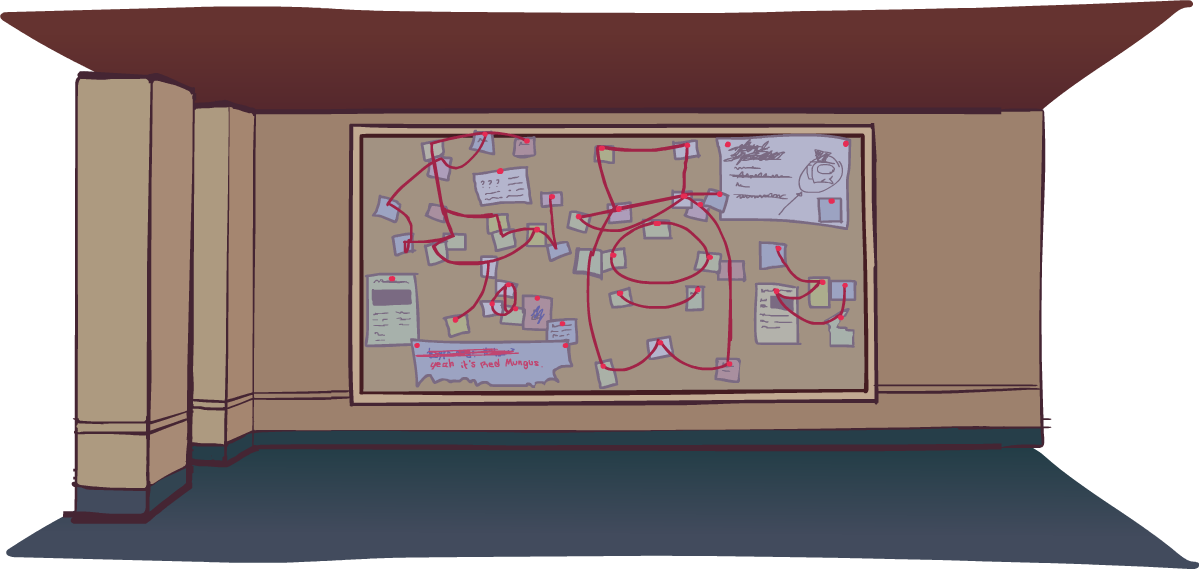
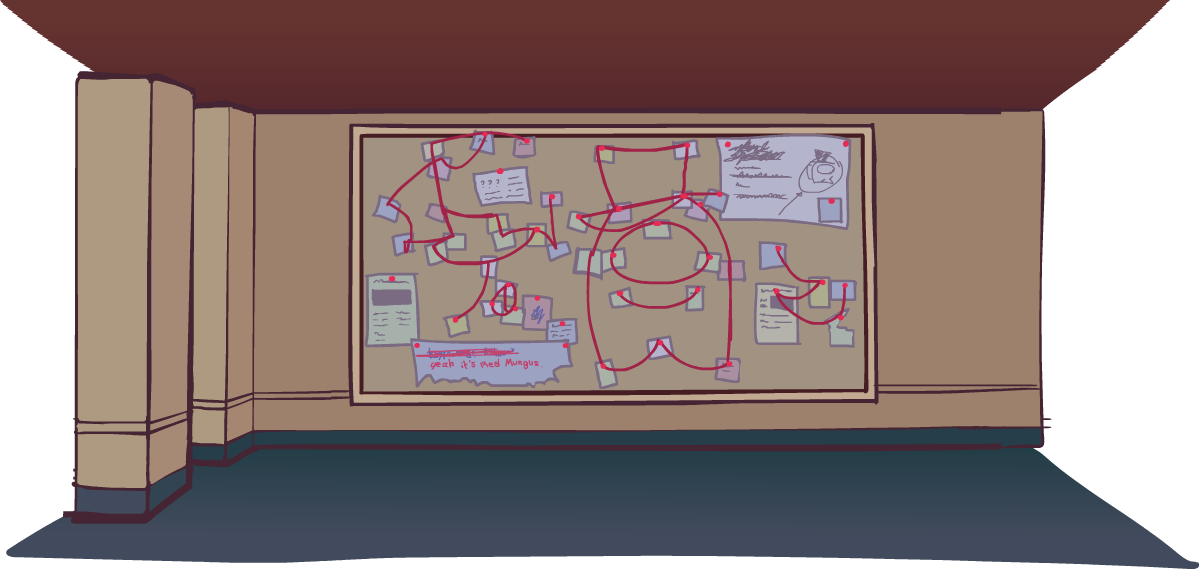
1.1.1b

Changed region(s): [[0.0, 0.0, 1.0, 0.0896], [0.0309, 0.0598, 0.0617, 0.1195]]

diff --git a/LEGACY.md b/LEGACY.md
@@ -37,9 +37,20 @@ WEBSITE: https://vsimpostor.com/
 - Lithuanian
 
 # CHANGELOG
-Current version: **1.1.1**
+Current version: **1.1.1b**
 
-## 1.1.1 (june idk 2026)
+## 1.1.1b (june 21 2026)
+  
+### Bugfixes
+- Fixed dialogue and its cohorts from only the assets folder, resulting in modded dialogue crashing.
+- Lights Down correctly changes the current character if skins are equipped.
+- Clipping in Voting Time background fixed.
+
+### For developers
+These will only affect those who work on mods for Legacy
+- All events have descriptions to hopefully note what they do.
+
+## 1.1.1 (june 21 2026)
 
 ### Additions
 - **2 new languages have been added:**

diff --git a/content/securitydlc/DLC.md b/content/securitydlc/DLC.md
@@ -26,16 +26,21 @@ The DLC is an example mod made for VS. Impostor Legacy. For a grounded guide to 
 - Vietnamese
 
 # CHANGELOG
-Current version: **1.1.1**
+Current version: **1.1.1b**
 
-## 1.1.1 (june idk 2025)
+## 1.1.1 (june 21 2026)
+
+### Changes
+- Mini Grey pet has correct requirements.
+
+## 1.1.1 (june 21 2026)
 
 ### Changes
 - Getting pranked in Don't Lied made more immersive.
   - Can no longer taunt during a prank.
 - Fixed some bugs with playable Noob49.
 - Added a missing note in Trot Away.
-- Fixed a issue with some skins in Suspect.
+- Fixed an issue with some skins in Suspect.
 - Fixed some issues with the EVIL BF skin.
 - Low Quality version of the Triple Threat stage fixed.
 - Mini Grey does not bend the rules of pixel stages.